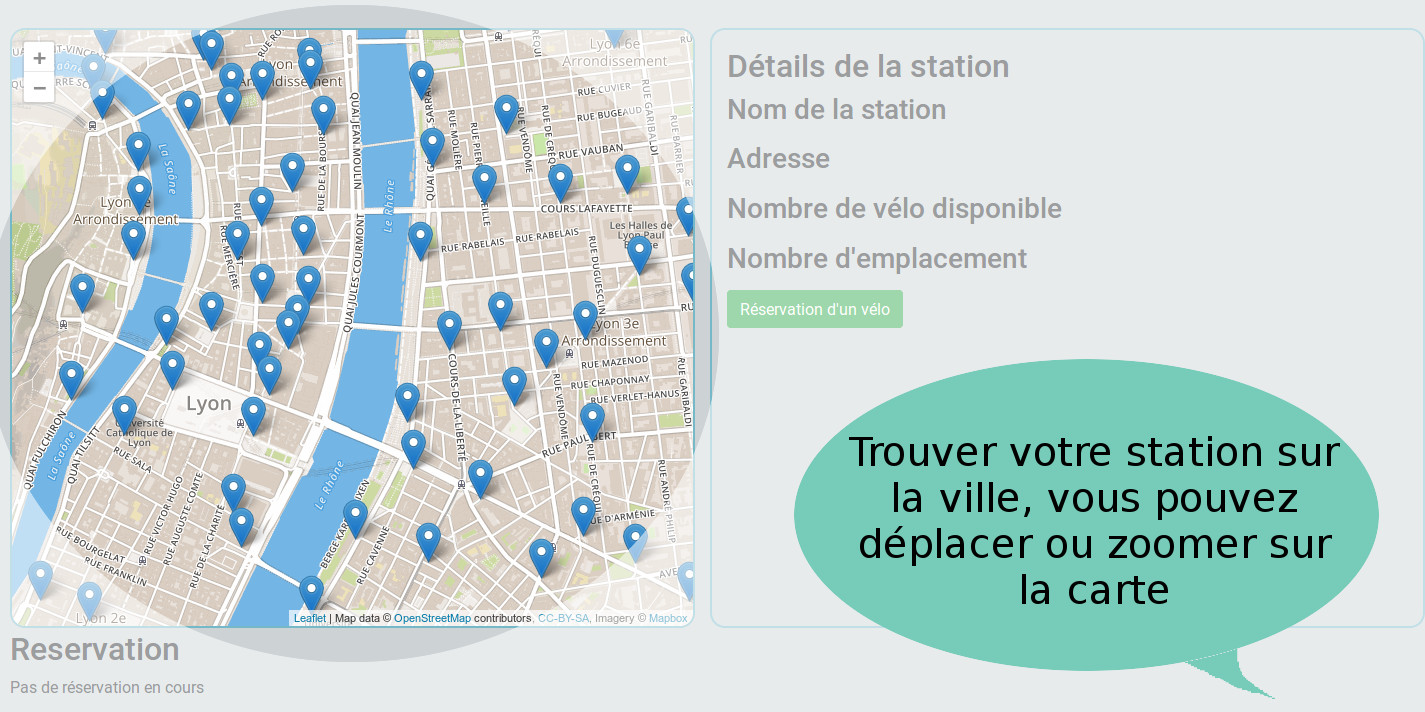
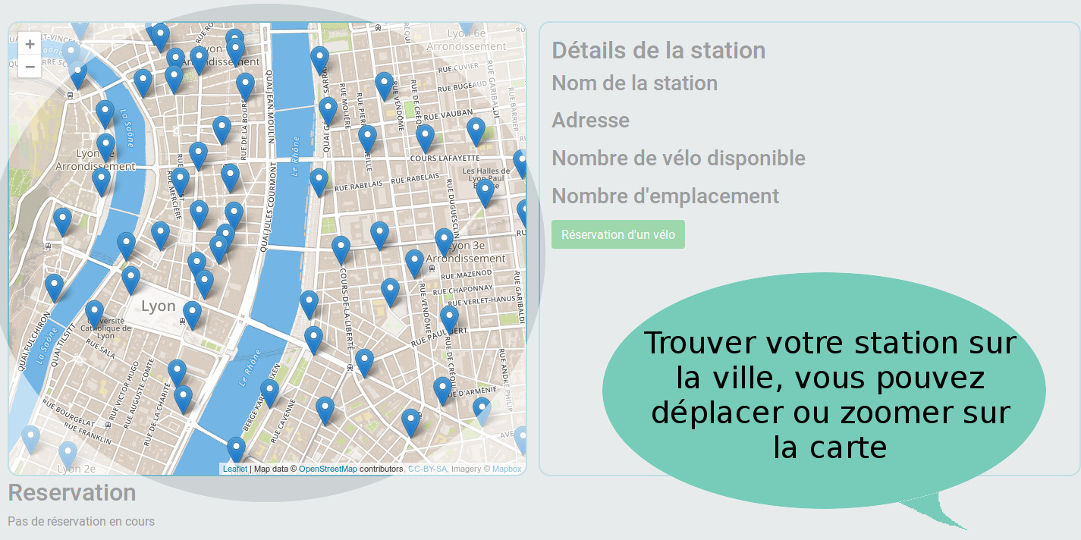
affichage mobile et tablette

diff --git a/index.html b/index.html
@@ -4,6 +4,7 @@
     <meta charset="utf-8">
     <link rel="stylesheet" href="./css/bootstrap.min.css">
     <link rel="stylesheet" href="./css/style.css">
+    <link rel="stylesheet" href="https://use.fontawesome.com/releases/v5.7.2/css/all.css" integrity="sha384-fnmOCqbTlWIlj8LyTjo7mOUStjsKC4pOpQbqyi7RrhN7udi9RwhKkMHpvLbHG9Sr" crossorigin="anonymous">
     <link rel="stylesheet" href="https://unpkg.com/leaflet@1.5.1/dist/leaflet.css"
    integrity="sha512-xwE/Az9zrjBIphAcBb3F6JVqxf46+CDLwfLMHloNu6KEQCAWi6HcDUbeOfBIptF7tcCzusKFjFw2yuvEpDL9wQ=="
    crossorigin=""/>
@@ -15,20 +16,9 @@
   <body>
     <nav class="navbar navbar-expand-lg navbar-light">
       <a class="navbar-brand" href="#">Velab</a>
-      <button class="navbar-toggler" type="button" data-toggle="collapse" data-target="#navbarNavAltMarkup" aria-controls="navbarNavAltMarkup" aria-expanded="false" aria-label="Toggle navigation">
-        <span class="navbar-toggler-icon"></span>
-      </button>
-      <div class="collapse navbar-collapse" id="navbarNavAltMarkup">
-        <div class="navbar-nav">
-          <a class="nav-item nav-link" href="#">Tutoriel<span class="sr-only">(current)</span></a>
-          <a class="nav-item nav-link" href="#carte">Carte</a>
-          <a class="nav-item nav-link" href="#">Réservation</a>
-          <a class="nav-item nav-link" href="#">Contact</a>
-        </div>
-      </div>
     </nav>
     <div class="main container-fluid">
-      <div id="diaporama">
+      <div id="diaporama" class="col-lg-12">
         <ul>
           <li><img src="./media/diapo01.jpg" alt="" class="img-carousel"></li>
           <li><img src="./media/diapo02.jpg" alt="" class="img-carousel"></li>
@@ -37,16 +27,18 @@
           <li><img src="./media/diapo05.jpg" alt="" class="img-carousel"></li>
         </ul>
         <div class="control">
-          <button type="button" name="prev" class="btn btn-info prev">Précédent</button>
-          <button type="button" name="next" class="btn btn-info next">Suivant</button>
+          <button type="button" name="prev" class="btn btn-info prev"><i class="fas fa-caret-left"></i></button>
+          <button type="button" name="pause" class="btn btn-info pause"><i class="fas fa-pause"></i></button>
+          <button type="button" name="next" class="btn btn-info next"><i class="fas fa-caret-right"></i></button>
         </div>
       </div>
 
+
       <div id="affichage-carte" class="row">
-          <div class="carte-velo col-lg-6">
+          <div class="carte-velo col-md-12 col-lg-6">
             <div id="carte"></div>
           </div>
-          <div class="col-lg-6">
+          <div class="col-md-12 col-lg-6">
             <div class="detail-station">
               <h2>Détails de la station</h2>
               <h3>Nom de la station</h3>

diff --git a/css/style.css b/css/style.css
@@ -6,10 +6,23 @@ nav {
   background-color: #75b8c8 ;
 }
 
+h2 {
+  font-size: 1.5rem;
+  text-align: center;
+}
+
+h3 {
+  font-size: 1.25rem
+}
+
+p {
+  font-size: 1rem
+}
+
 #diaporama{
   position: relative;
-  width: 640px;
-  height: 540px;
+  width: 800px;
+  height: 402px;
   margin: auto;
 }
 
@@ -22,16 +35,16 @@ li {
   transform: translateX(-50%);
   left: 50%;
   top: 0;
-  border: 2px solid #75b8c8;
+  border: 2px solid #506c64;
   border-radius: 15px;
-  height: 480px;
+  max-width: 100%;
 }
 
 .control {
   position: absolute;
   transform: translateX(-50%);
   left: 50%;
-  bottom: 0;
+  bottom: 2%;
 }
 
 #affichage-carte {
@@ -40,8 +53,8 @@ li {
 
 #carte {
   width: 100% ;
-  height: 600px ;
-  border: 2px solid #75b8c8;
+  height: 500px ;
+  border: 2px solid #506c64;
   border-radius: 15px;
 }
 
@@ -50,14 +63,67 @@ li {
 }
 
 .detail-station {
-  border: 2px solid #75b8c8;
+  border: 2px solid #506c64;
   border-radius: 15px;
   padding: 15px;
+  height: 100%;
 }
 
 .div-reservation {
-  border: 2px solid #75b8c8;
+  border: 2px solid #506c64;
   border-radius: 15px;
   /*padding: 15px;*/
   margin-top: 15px;
+}
+
+/* Extra small devices (portrait phones, less than 576px)*/
+@media (max-width: 575.98px) {
+#diaporama{
+  width: 345px;
+  height: 175px;
+}
+#carte {
+  height: 200px ;
+}
+}
+
+/* Small devices (landscape phones, 576px and up)*/
+@media (min-width: 576px) and (max-width: 767.98px) {
+#diaporama{
+  width: 560px;
+  height: 281px;
+}
+#carte {
+  height: 300px ;
+}
+}
+
+/* Medium devices (tablets, 768px and up)*/
+@media (min-width: 768px) and (max-width: 991.98px) {
+#diaporama{
+  width: 738px;
+  height: 370px;
+}
+#carte {
+  height: 400px ;
+}
+}
+
+/* Large devices (desktops, 992px and up)*/
+@media (min-width: 992px) and (max-width: 1199.98px) {
+#diaporama{
+  width: 1000px;
+  height: 501px;
+}
+#carte {
+  height: 400px ;
+}
+}
+
+/* Extra large devices (large desktops, 1200px and up)*/
+@media (min-width: 1200px) {
+#diaporama{
+  width: 1200px;
+  height: 544px;
+}
 }

diff --git a/js/diaporama.js b/js/diaporama.js
@@ -1,6 +1,6 @@
-var $carousel = $('#diaporama');// cible la div du diapo
-var $imgCarousel = $('#diaporama img');// cible tableau les img du diapo
-var indexImg = $imgCarousel.length - 1;// creation index selon nombre image
+const $carousel = $('#diaporama');// cible la div du diapo
+const $imgCarousel = $('#diaporama img');// cible tableau les img du diapo
+const indexImg = $imgCarousel.length - 1;// creation index selon nombre image
 //inialisation du diapo
 i=0;
 $currentImg = $imgCarousel.eq(i);//definition de l'image courante = 0
